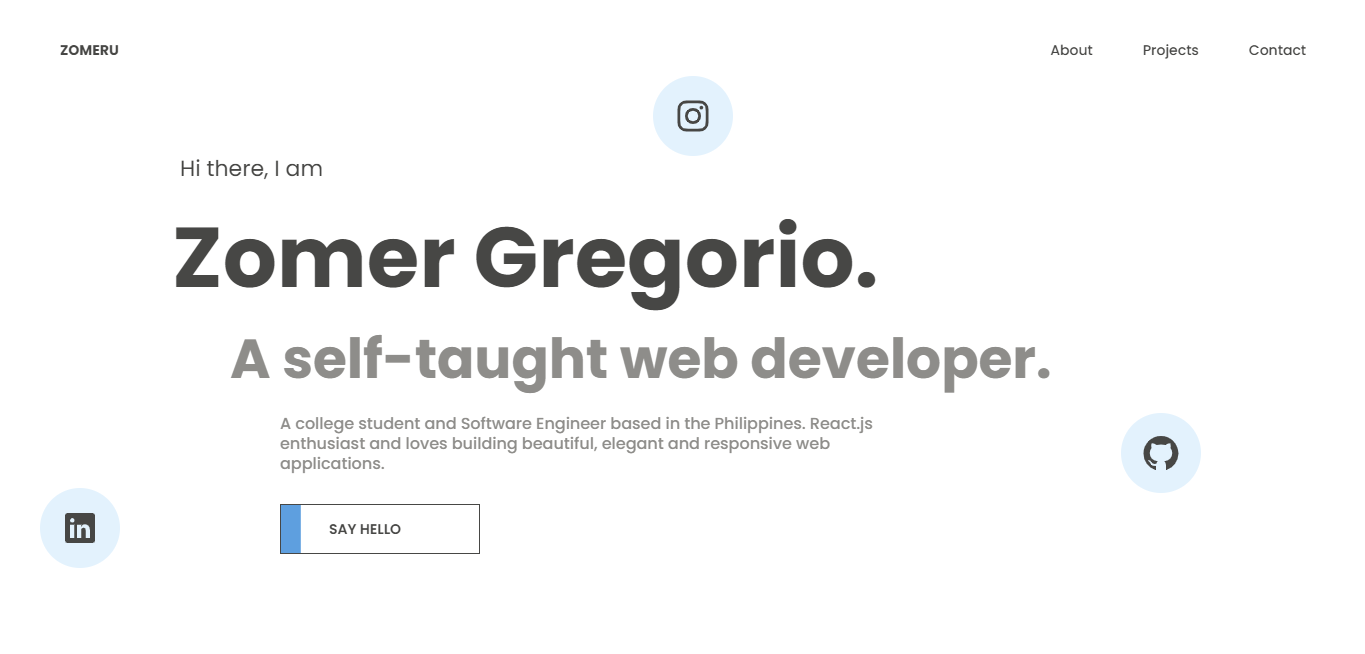
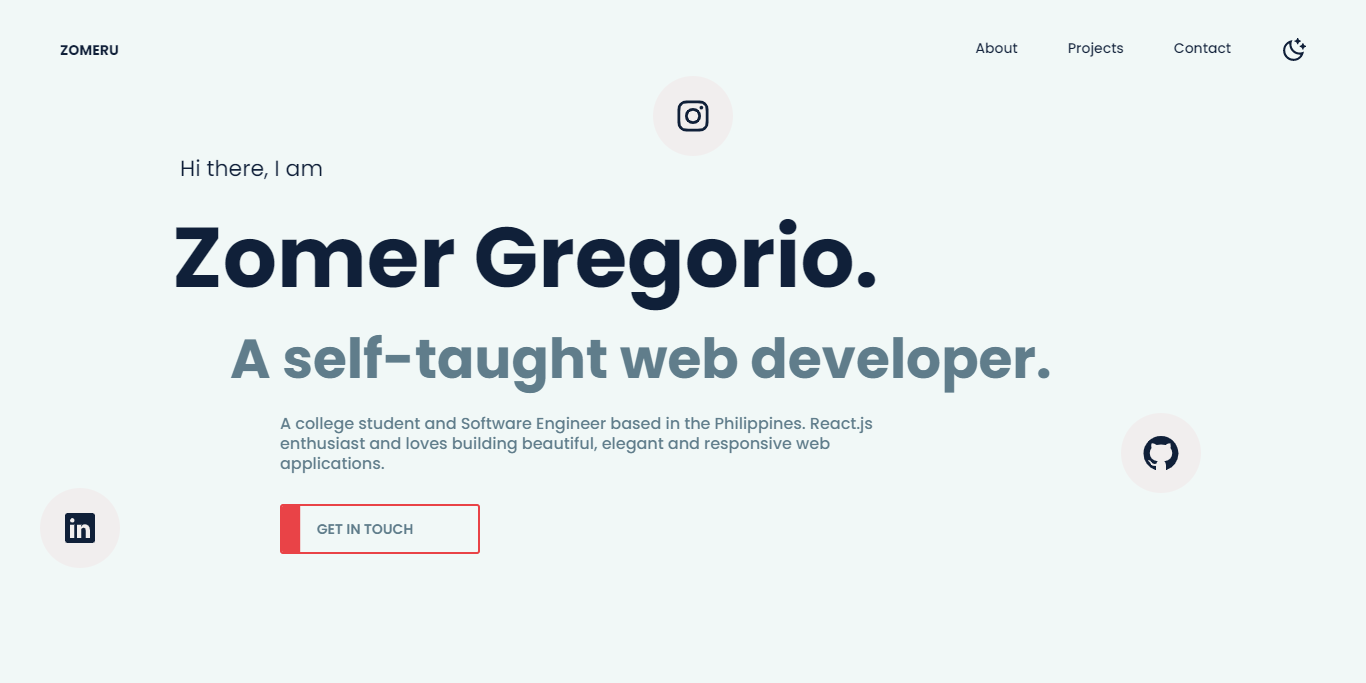
Zomeru 💯

diff --git a/README.md b/README.md
@@ -13,4 +13,8 @@
   <li>Passion and Love ❤</li>
 </ul>
 <br>
-<img src="https://raw.githubusercontent.com/zomeru/portfolio/main/src/assets/images/fullpage.png" alt="My website full page photo" />
+<h3 align="center">Light Mode</h3>
+<img align="center" src="https://raw.githubusercontent.com/zomeru/portfolio/main/src/assets/images/fullpage-light.png" alt="Light mode view of the whole page" />
+<br>
+<h3 align="center">Dark Mode</h3>
+<img align="center" src="https://raw.githubusercontent.com/zomeru/portfolio/main/src/assets/images/fullpage-dark.png" alt="Dark mode view of the whole page" />
